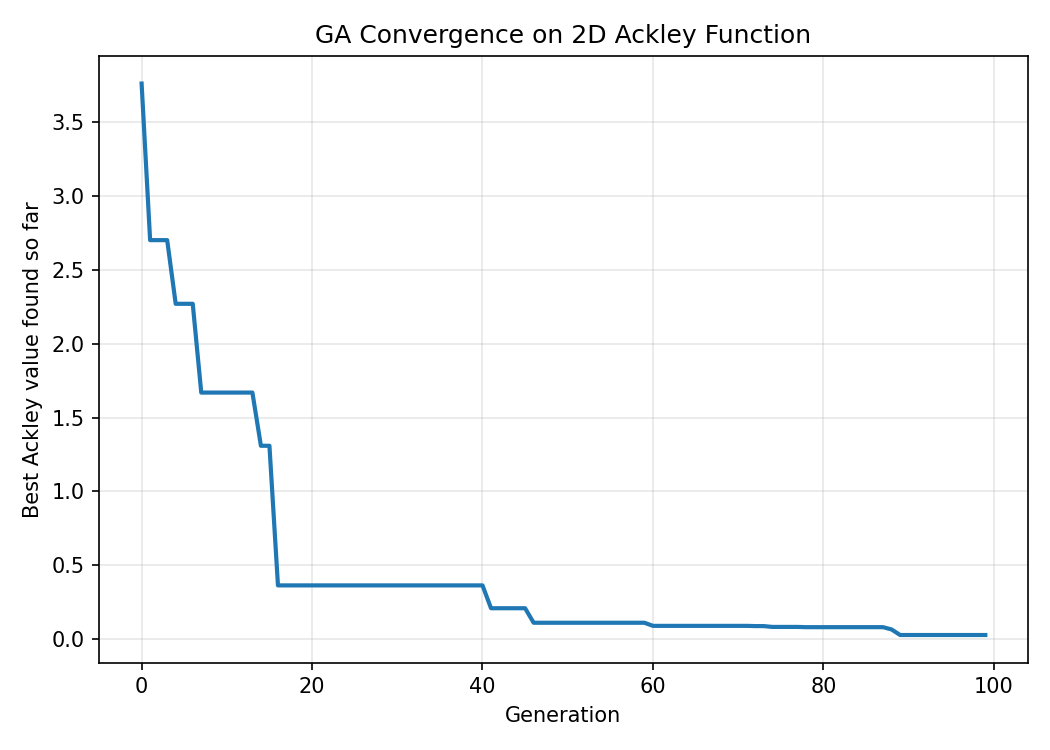
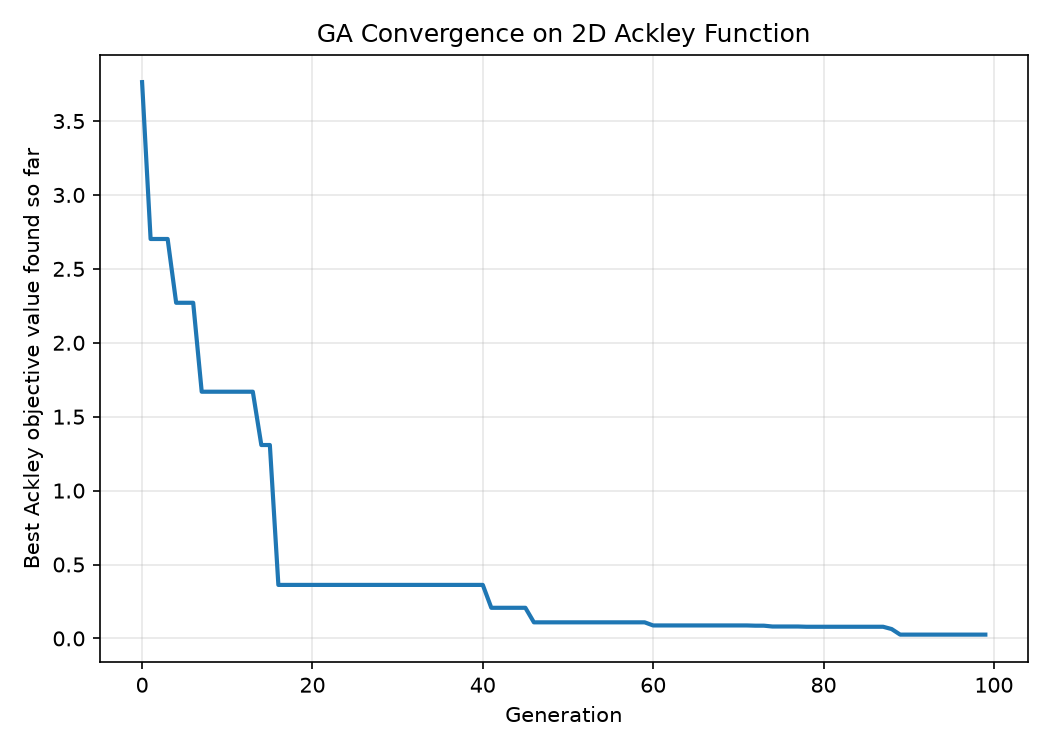
feat: Add distance calculation and convergence plot for Ackley function

diff --git a/ackley_ga.py b/ackley_ga.py
@@ -166,16 +166,22 @@ if __name__ == "__main__":
 
     best_x, best_f, history = genetic_algorithm()
 
+    # Verification metric only: Euclidean distance of the found solution
+    # from the known global optimum (0, 0). It does not affect selection,
+    # crossover, mutation, elitism or the GA in any way.
+    distance = np.sqrt(best_x[0] ** 2 + best_x[1] ** 2)
+
     print("\n===== RESULT =====")
     print(f"Best solution : x1 = {best_x[0]:.6f}, x2 = {best_x[1]:.6f}")
     print(f"Ackley f(x)   : {best_f:.6f}")
     print("Known global minimum: f(0, 0) = 0")
+    print(f"Distance from global optimum (0,0): {distance:.6f}")
 
     # Convergence plot
     plt.figure(figsize=(7, 5))
     plt.plot(history, linewidth=2)
     plt.xlabel("Generation")
-    plt.ylabel("Best Ackley value found so far")
+    plt.ylabel("Best Ackley objective value found so far")
     plt.title("GA Convergence on 2D Ackley Function")
     plt.grid(True, alpha=0.3)
     plt.tight_layout()

diff --git a/README.md b/README.md
@@ -34,6 +34,17 @@ test for optimization/search algorithms.
 | Mutation prob.    | 0.05 |
 | Elitism           | 1 (best individual preserved every generation) |
 
+### Objective value vs. GA fitness
+
+These are two different quantities and should not be confused:
+
+- **Ackley objective value `f(x)`** — **lower is better** (the global
+  minimum is 0). This is what the algorithm is minimizing and what is
+  reported as the result and plotted in the convergence graph.
+- **GA fitness** — **higher is better**. It is a transformed score used
+  only for roulette-wheel selection, so that a better (lower) objective
+  value gets a bigger slice of the wheel.
+
 Since the GA maximizes fitness but the Ackley function is a
 **minimization** target, fitness is computed as:
 
@@ -47,7 +58,9 @@ slice of the roulette wheel).
 ## Files
 
 - `ackley_ga.py` — full GA implementation, entry point
-- `ga_ackley_convergence.png` — example convergence plot (best fitness per generation)
+- `ga_ackley_convergence.png` — convergence plot showing the best Ackley
+  objective value found so far at each generation (note: this is the
+  objective value, **not** the transformed roulette-wheel fitness)
 
 ## Requirements
 
@@ -81,7 +94,12 @@ Generation 100 | Best f(x) so far = 0.025708 | x = (-0.0034, 0.0077)
 Best solution : x1 = -0.003354, x2 = 0.007725
 Ackley f(x)   : 0.025708
 Known global minimum: f(0, 0) = 0
+Distance from global optimum (0,0): 0.008422
 ```
+
+The last line is a verification metric only — the Euclidean distance
+`sqrt(x1² + x2²)` between the found solution and the known optimum. It is
+computed after the GA finishes and does not influence the search.
 
 ## Notes
 
